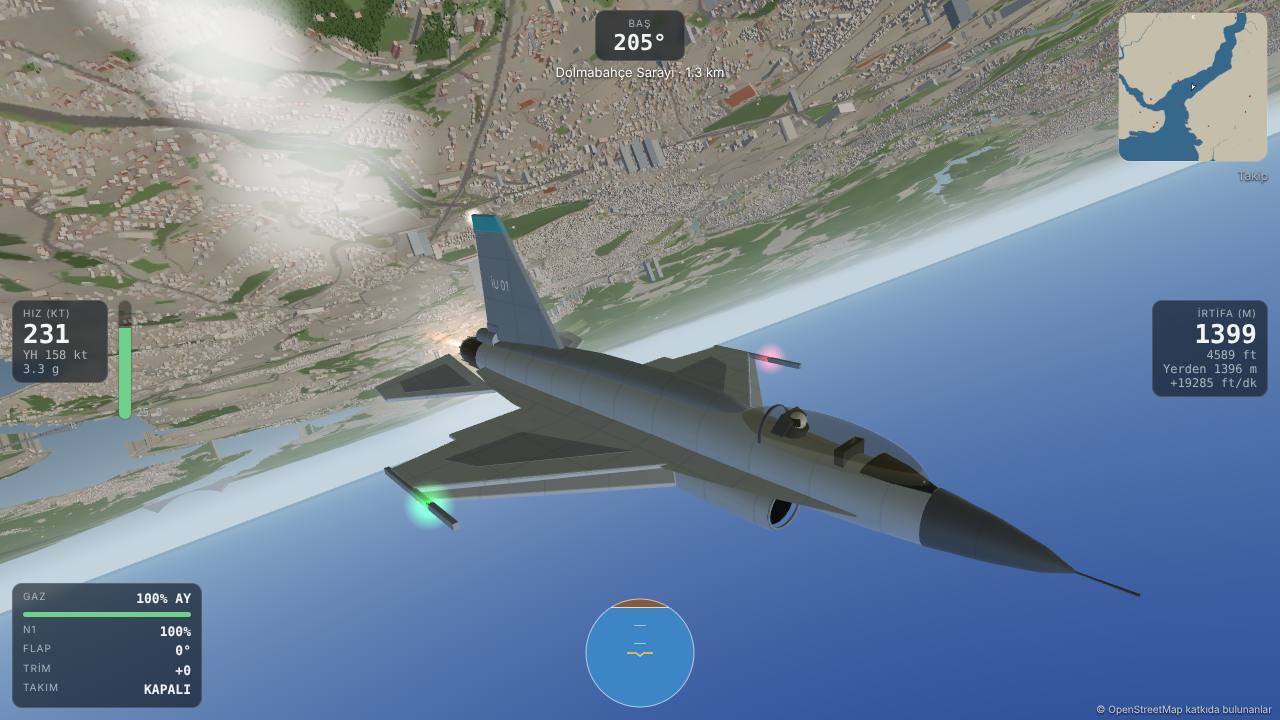
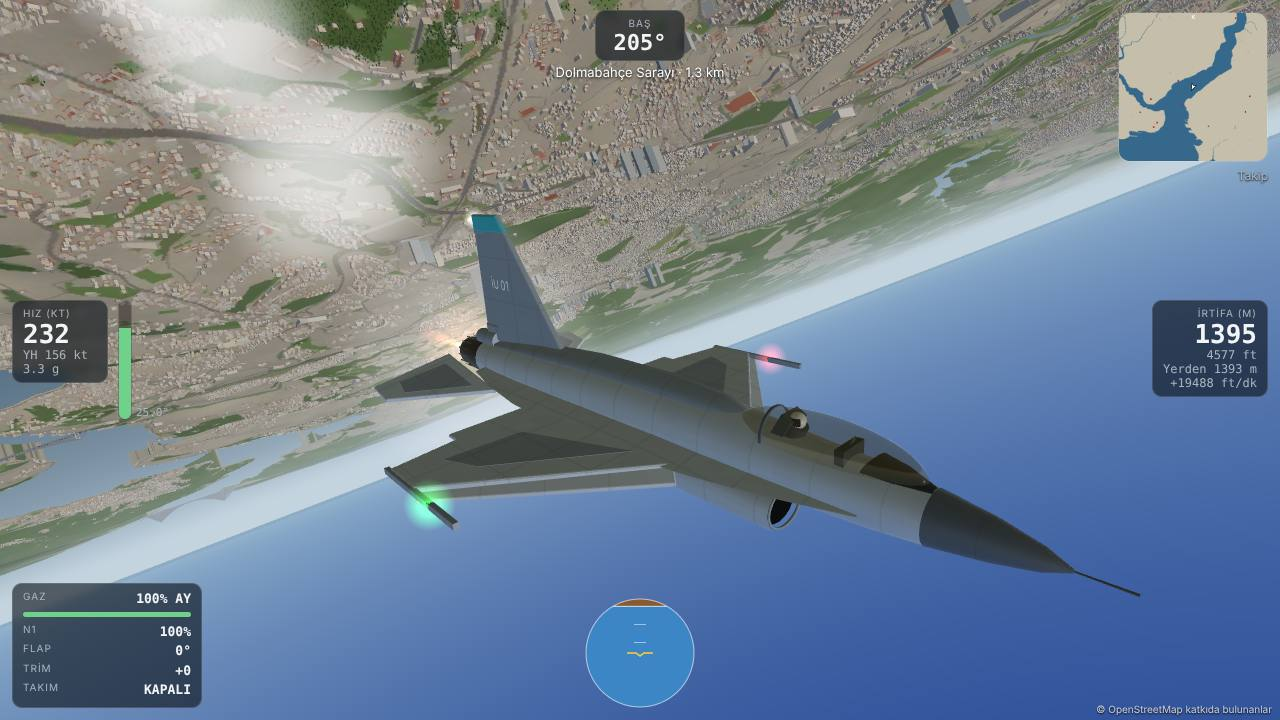
Uçuş: kolay kumanda (analog solda, gaz sağda, flap/takım/fren/trim kendiliğinden, Cessna ve L-39'a uçuş bilgisayarı)
Claude-Session: https://claude.ai/code/session_019HWPbKRM2DXga1zKYf2HBw

diff --git a/ucak-simulatoru/www/js/main.js b/ucak-simulatoru/www/js/main.js
@@ -1,6 +1,6 @@
 // İstanbul Uçuşu - ana döngü, kamera, gösterge (HUD), menü, başlangıç noktaları, duman izi.
 import * as THREE from '../vendor/three.module.min.js';
-import { PLANES, Aircraft, advance, startTrimmed, quatToEuler, liftCurve, isa, KT, FT, trimLevel } from './fdm.js';
+import { PLANES, easyPlane, Aircraft, advance, startTrimmed, quatToEuler, liftCurve, isa, KT, FT, trimLevel } from './fdm.js';
 import { World, geo, ungeo, convergence } from './world.js';
 import { buildC172, buildJet, buildF16, setCockpit } from './models.js';
 import { Input } from './input.js';
@@ -15,7 +15,7 @@ const params = new URLSearchParams(location.search);
 // ---------- ayarlar ----------
 const SKEY = 'istanbul-ucusu-v1';
 const saved = (() => { try { return JSON.parse(localStorage.getItem(SKEY)) || {}; } catch (e) { return {}; } })();
-const settings = Object.assign({ plane: 'f16', start: 'pist', wind: 'yok', quality: isTouch ? 'orta' : 'yuksek', autoRudder: true, level: true, tilt: false, invert: false, smoke: false }, saved);
+const settings = Object.assign({ plane: 'f16', start: 'pist', wind: 'yok', quality: isTouch ? 'orta' : 'yuksek', autoRudder: true, level: true, tilt: false, invert: false, smoke: false, easy: true }, saved);
 if (!saved.v2) { settings.plane = 'f16'; settings.v2 = true; } // yeni sürümde vurgulanan uçak bir kez seçili gelir
 const saveSettings = () => { try { localStorage.setItem(SKEY, JSON.stringify(settings)); } catch (e) { /* özel pencere */ } };
 saveSettings();
@@ -91,7 +91,7 @@ function bindMenu() {
         if (name === 'quality') location.reload(); };
     });
   };
-  ['plane', 'start', 'wind', 'quality', 'autoRudder', 'level', 'tilt', 'invert'].forEach(sel);
+  ['plane', 'start', 'wind', 'quality', 'autoRudder', 'level', 'tilt', 'invert', 'easy'].forEach(sel);
   $('#bStart').onclick = async () => {
     if (settings.tilt && window.DeviceOrientationEvent && DeviceOrientationEvent.requestPermission) {
       try { await DeviceOrientationEvent.requestPermission(); } catch (e) { /* izin yok */ }
@@ -126,7 +126,8 @@ async function startFlight() {
   input.invert = settings.invert;
   input.setTilt(settings.tilt && isTouch);
   if (model) scene.remove(model.root);
-  ac = new Aircraft(PLANES[settings.plane]);
+  ac = new Aircraft(settings.easy ? easyPlane(PLANES[settings.plane]) : PLANES[settings.plane]);
+  document.body.classList.toggle('easy', !!settings.easy);
   model = settings.plane === 'jet' ? buildJet() : settings.plane === 'f16' ? buildF16(world.envMap()) : buildC172();
   scene.add(model.root);
   $('#gearRow').style.display = $('#vGear').style.display = ac.P.retract ? '' : 'none';
@@ -387,13 +388,14 @@ function drawHUD(dt) {
     hud.aoa.style.height = clamp((o.alpha * R2D + 5) / (as * R2D + 10) * 100, 0, 100) + '%';
     hud.aoa.classList.toggle('red', warn);
     setT(hud.g, ac.nz.toFixed(1) + ' g');
-    if (isTouch) setT(hud.ti, 'GAZ ' + Math.round(ac.ctl.throttle * 100) + '%' + (ac.ab > 0.1 ? ' ARD YAKICI' : '') + '  ' + (P.kind === 'prop' ? Math.round(ac.rpm / 10) * 10 + ' rpm' : 'N1 ' + Math.round(ac.spool * 100) + '%') + '\nFLAP ' + P.flapDetents[flapIdx] + '°' + (P.fbw ? '' : '  TRİM ' + Math.round(ac.ctl.trim * 100)) + (P.retract ? '  TAKIM ' + (ac.gearPos > 0.98 ? 'AÇIK' : ac.gearPos < 0.02 ? 'KAPALI' : '...') : '') + (ac.ctl.brake ? '  FREN' : ''));
+    if (isTouch && settings.easy) setT(hud.ti, '');
+    else if (isTouch) setT(hud.ti, 'GAZ ' + Math.round(ac.ctl.throttle * 100) + '%' + (ac.ab > 0.1 ? ' ARD YAKICI' : '') + '  ' + (P.kind === 'prop' ? Math.round(ac.rpm / 10) * 10 + ' rpm' : 'N1 ' + Math.round(ac.spool * 100) + '%') + '\nFLAP ' + P.flapDetents[flapIdx] + '°' + (P.fbw ? '' : '  TRİM ' + Math.round(ac.ctl.trim * 100)) + (P.retract ? '  TAKIM ' + (ac.gearPos > 0.98 ? 'AÇIK' : ac.gearPos < 0.02 ? 'KAPALI' : '...') : '') + (ac.ctl.brake ? '  FREN' : ''));
     const nl = world.nearestLandmark(ac.pos[1], ac.pos[0]);
     setT(hud.near, nl ? nl.name + ' · ' + (nl.dist < 1000 ? Math.round(nl.dist) + ' m' : (nl.dist / 1000).toFixed(1) + ' km') : '');
     let m = '';
     if (o.V > P.Vne * 0.95 && airborne) m = 'AZAMİ HIZ';
     else if (ac.nz > P.nMax) m = 'YÜK SINIRI AŞILDI';
-    else if (STARTS[settings.start].rw && !STARTS[settings.start].approach && ac.onGround && ac.ctl.throttle < 0.05 && simTime < 8) m = P.fbw ? 'Tam gaz verin (ard yakıcı), 150 kt civarında levyeyi çekin' : 'Gazı açın (Shift / +), 55 kt civarında levyeyi çekin';
+    else if (STARTS[settings.start].rw && !STARTS[settings.start].approach && ac.onGround && ac.ctl.throttle < 0.05 && simTime < 8) m = isTouch && settings.easy ? 'Gazı sağdan sonuna kadar açın, hız artınca analogu yukarı itin' : P.id === 'f16' ? 'Tam gaz verin (ard yakıcı), 150 kt civarında levyeyi çekin' : 'Gazı açın (Shift / +), 55 kt civarında levyeyi çekin';
     setT(hud.msg, m);
     drawMini(e.psi);
     if (mapOpen) drawBigMap();
@@ -491,6 +493,23 @@ function puff(p) {
   m.position.copy(p); scene.add(m); puffs.push({ m, t: 0 });
 }
 
+// ---------- kolay kumanda: flap, iniş takımı, fren ve trim kendiliğinden ----------
+// flap hıza göre (yavaşta açık), takım kalkıştan sonra toplanır, alçak ve yavaş inerken açılır; yerde gaz kapalıysa fren.
+const EASY_REF = { c172: 55, jet: 110, f16: 140 }; // kt, yaklaşma hızının altı
+function autoSystems(ac) {
+  const P = ac.P, n = P.flapDetents.length - 1, v = ac.out.V / KT / (EASY_REF[P.id] || 100);
+  if (ac.onGround) flapIdx = Math.min(1, n);
+  else flapIdx = v < 1.2 ? n : v < 1.45 ? Math.max(1, n - 1) : v < 1.75 ? Math.min(1, n) : 0;
+  ac.ctl.trim = 0;
+  ac.ctl.brake = ac.onGround && input.throttle < 0.04 ? 1 : 0;
+  if (P.retract) {
+    const agl = ac.out.agl || 0, vs = -ac.vel[2];
+    if (ac.onGround) ac.ctl.gearDown = true;
+    else if (ac.ctl.gearDown && agl > 25 && vs > 0.5) ac.ctl.gearDown = false;
+    else if (!ac.ctl.gearDown && agl < 120 && v < 1.9 && vs < 0) ac.ctl.gearDown = true;
+  }
+}
+
 // ---------- döngü ----------
 let last = performance.now();
 let fpsT = 0, fpsN = 0, fps = 60;
@@ -520,6 +539,7 @@ function frame(now) {
       ac.ctl.yaw = yaw;
       ac.ctl.throttle = input.throttle;
       ac.ctl.brake = input.brake;
+      if (settings.easy) autoSystems(ac);
       ac.ctl.flaps = P.flapDetents[flapIdx] / P.flapDetents[P.flapDetents.length - 1];
       world.acAlt = ac.alt;
       updateWind(simTime, ac.out.agl || 100);

diff --git a/ucak-simulatoru/www/index.html b/ucak-simulatoru/www/index.html
@@ -106,32 +106,33 @@ kbd { font: 600 12px ui-monospace, monospace; background: rgba(255,255,255,.1); 
 #touch { position: fixed; inset: 0; pointer-events: none; display: none; }
 body.touch #hud:not(.hide) ~ #touch { display: block; }
 #touch > * { pointer-events: auto; position: absolute; }
-#stick { right: calc(18px + var(--sar)); bottom: calc(18px + var(--sab)); width: 150px; height: 150px; border-radius: 50%; background: rgba(12,18,26,.38); border: 2px solid rgba(255,255,255,.25); touch-action: none; }
+#stick { left: calc(18px + var(--sal)); bottom: calc(18px + var(--sab)); width: 150px; height: 150px; border-radius: 50%; background: rgba(12,18,26,.38); border: 2px solid rgba(255,255,255,.25); touch-action: none; }
 #stick::before, #stick::after { content: ''; position: absolute; background: rgba(255,255,255,.18); }
 #stick::before { left: 50%; top: 12px; bottom: 12px; width: 1px; }
 #stick::after { top: 50%; left: 12px; right: 12px; height: 1px; }
 #knob { position: absolute; left: 50%; top: 50%; width: 62px; height: 62px; margin: -31px; border-radius: 50%; background: rgba(255,255,255,.75); box-shadow: 0 2px 8px rgba(0,0,0,.4); }
-#thr { left: calc(14px + var(--sal)); bottom: calc(18px + var(--sab)); width: 58px; height: 190px; border-radius: 14px; background: rgba(12,18,26,.45); border: 2px solid rgba(255,255,255,.25); touch-action: none; overflow: hidden; }
+#thr { right: calc(18px + var(--sar)); bottom: calc(18px + var(--sab)); width: 58px; height: 190px; border-radius: 14px; background: rgba(12,18,26,.45); border: 2px solid rgba(255,255,255,.25); touch-action: none; overflow: hidden; }
 #thrFill { position: absolute; left: 0; right: 0; bottom: 0; background: rgba(111,209,138,.35); }
 #thrKnob { position: absolute; left: 4px; right: 4px; height: 28px; border-radius: 8px; background: rgba(255,255,255,.85); }
 #thr span { position: absolute; top: 6px; left: 0; right: 0; text-align: center; font-size: 10px; letter-spacing: 1px; color: var(--dim); }
 .tb { min-width: 52px; min-height: 44px; padding: 0 10px; border-radius: 10px; border: 1px solid rgba(255,255,255,.25); background: rgba(12,18,26,.55); font-size: 12px; font-weight: 700; letter-spacing: .5px; touch-action: none; }
 .tb.on { background: rgba(255,207,51,.4); }
-#bFlapD { left: calc(84px + var(--sal)); bottom: calc(18px + var(--sab)); }
-#bFlapU { left: calc(84px + var(--sal)); bottom: calc(68px + var(--sab)); }
-#bBrake { left: calc(84px + var(--sal)); bottom: calc(118px + var(--sab)); }
-#bGear { left: calc(84px + var(--sal)); bottom: calc(168px + var(--sab)); }
+#bFlapD { right: calc(88px + var(--sar)); bottom: calc(18px + var(--sab)); }
+#bFlapU { right: calc(88px + var(--sar)); bottom: calc(68px + var(--sab)); }
+#bBrake { right: calc(88px + var(--sar)); bottom: calc(118px + var(--sab)); }
+#bGear { right: calc(88px + var(--sar)); bottom: calc(168px + var(--sab)); }
 #bSmoke { left: calc(232px + var(--sal)); top: calc(12px + var(--sat)); }
 #bMap { display: none; }
 body.touch #mini { pointer-events: auto; cursor: pointer; }
 .tb.two { line-height: 1.1; padding: 4px 10px; font-size: 11px; }
-#bTrimU { right: calc(96px + var(--sar)); bottom: calc(178px + var(--sab)); }
-#bTrimD { right: calc(18px + var(--sar)); bottom: calc(178px + var(--sab)); }
+#bTrimU { left: calc(96px + var(--sal)); bottom: calc(178px + var(--sab)); }
+#bTrimD { left: calc(18px + var(--sal)); bottom: calc(178px + var(--sab)); }
 #bPause { left: calc(12px + var(--sal)); top: calc(12px + var(--sat)); }
 #bReset { left: calc(72px + var(--sal)); top: calc(12px + var(--sat)); }
 #bCam { left: calc(152px + var(--sal)); top: calc(12px + var(--sat)); }
 #touchInfo { white-space: pre; right: calc(18px + var(--sar)); bottom: calc(228px + var(--sab)); font: 11px ui-monospace, Menlo, monospace; color: #fff; text-shadow: 0 1px 2px #000; pointer-events: none; text-align: right; }
 body.touch #pInfo { display: none; }
+body.easy #bFlapD, body.easy #bFlapU, body.easy #bBrake, body.easy #bGear, body.easy #bTrimU, body.easy #bTrimD { display: none; }
 body.touch #pSpd { top: calc(64px + var(--sat)); left: calc(12px + var(--sal)); }
 body.touch #aoa { top: calc(64px + var(--sat)); height: 80px; }
 body.touch #vAoa { top: calc(148px + var(--sat)); }
@@ -188,6 +189,9 @@ body.portrait #rot { display: flex; }
         <button class="opt" data-set="quality" data-val="yuksek">Grafik yüksek</button>
         <button class="opt" data-set="quality" data-val="orta">Orta</button>
         <button class="opt" data-set="quality" data-val="dusuk">Düşük</button>
+      </div><div class="opts" style="margin-top:8px">
+        <button class="opt" data-set="easy" data-val="true">Kolay kumanda<small>Yalnız analog ve gaz. Flap, iniş takımı, fren ve trim kendiliğinden; uçak stall olmaz</small></button>
+        <button class="opt" data-set="easy" data-val="false">Gerçekçi<small>Flap, takım, fren ve trim elle</small></button>
       </div><div class="opts" style="margin-top:8px">
         <button class="opt" data-set="autoRudder" data-val="true">Otomatik dümen açık<small>Dönüşte yan kaymayı siler; yerde levye burun tekerini çevirir</small></button>
         <button class="opt" data-set="autoRudder" data-val="false">Kapalı</button>

diff --git a/ucak-simulatoru/www/js/fdm.js b/ucak-simulatoru/www/js/fdm.js
@@ -165,7 +165,7 @@ export const PLANES = {
     Tmax: 76000, Tab: 125000, spoolUp: 0.55, spoolDown: 0.8, idleN: 0.07, gearTime: 3,
     Vne: 850 * KT, nMax: 9, nMin: -3,
     // fly-by-wire sınırları
-    fbw: { nMax: 9, nMin: -3, nMaxGear: 4, aMax: 25 * D2R, aMaxGear: 15 * D2R, aMin: -10 * D2R, pMax: 240 * D2R, betaMax: 12 * D2R, yawAug: 0.25, couple: 0.4 },
+    fbw: { nMax: 9, nMin: -3, nMaxGear: 4, aMax: 25 * D2R, aMaxGear: 15 * D2R, aMin: -10 * D2R, pMax: 240 * D2R, betaMax: 12 * D2R, yawAug: 0.25, couple: 0.4, turnComp: true },
     gear: [
       { name: 'burun', p: [3.9, 0, 1.78], k: 120000, c: 14000, steer: true, brake: false },
       { name: 'sol', p: [-0.45, -1.18, 1.78], k: 300000, c: 32000, steer: false, brake: true },
@@ -289,7 +289,13 @@ export class Aircraft {
       return { deCmd: pitch >= 0 ? pitch * P.deUp * 0.8 : -pitch * P.deDown * 0.5, daCmd: clamp(c.roll, -1, 1) * P.daMax * 0.5, drCmd: -clamp(c.yaw, -1, 1) * P.drMax * 0.5 };
     }
     // yerçekimi telafisi: dünya aşağı yönünün gövde z bileşeni (= cosθ cosφ)
-    const n0 = clamp(m[8], -1, 1);
+    let n0 = clamp(m[8], -1, 1);
+    // dönüş telafisi: levye ortadayken yatışta da irtifa korunur (n = cosθ/cosφ); 60°'den sonra ters uçuşa doğru yumuşakça eski davranışa döner
+    if (F.turnComp) {
+      const cth = Math.sqrt(Math.max(0, 1 - m[6] * m[6])), cph = cth > 0.05 ? m[8] / cth : 1;
+      if (cph > 0.5) n0 = clamp(cth / cph, -1, 2);
+      else if (cph > 0) n0 = clamp(cth / 0.5, 0, 2) * (cph / 0.5) + m[8] * (1 - cph / 0.5);
+    }
     const u = clamp(c.pitch + c.trim, -1, 1);
     const nHi = gearDn ? F.nMaxGear : F.nMax;
     const nCmd = u >= 0 ? n0 + u * (nHi - n0) : n0 + u * (n0 - F.nMin);
@@ -591,6 +597,15 @@ export function advance(ac, env, frameDt, acc = { t: 0 }) {
   while (acc.t >= DT && n < 48) { ac.step(DT, env); acc.t -= DT; n++; }
   return n;
 }
+
+// Kolay kumanda: fly-by-wire'ı olmayan uçaklara da oyun için uçuş bilgisayarı takılır.
+// Levye ortadayken uçuş yolu korunur (trim gerekmez), levye ne kadar çekilirse o kadar g / yuvarlanma hızı;
+// hücum açısı tutunma kaybının altında tutulur.
+export const EASY_FBW = {
+  c172: { nMax: 3.5, nMin: -1.5, nMaxGear: 3.5, aMax: 12 * D2R, aMaxGear: 12 * D2R, aMin: -8 * D2R, pMax: 70 * D2R, betaMax: 6 * D2R, yawAug: 0.15, couple: 1, turnComp: true },
+  jet: { nMax: 5, nMin: -2.5, nMaxGear: 3, aMax: 12 * D2R, aMaxGear: 11 * D2R, aMin: -8 * D2R, pMax: 160 * D2R, betaMax: 8 * D2R, yawAug: 0.2, couple: 0.6, turnComp: true },
+};
+export function easyPlane(P) { return P.fbw || !EASY_FBW[P.id] ? P : Object.assign({}, P, { fbw: EASY_FBW[P.id], easy: true }); }
 
 // Düz uçuş dengesi (trim): verilen hız, irtifa ve flapta yatay uçuş için α, elevatör trimi ve gaz.
 // opts.noThrust: gaz yerine uçuş yolu açısını çözer (gücü kapalı süzülme). Döndürür {alpha, trim, throttle, gamma, ok}

diff --git a/ucak-simulatoru/www/js/input.js b/ucak-simulatoru/www/js/input.js
@@ -102,7 +102,9 @@ export class Input {
       const r = R(), cx = r.left + r.width / 2, cy = r.top + r.height / 2, rad = r.width / 2;
       let x = (t.clientX - cx) / rad, y = (t.clientY - cy) / rad;
       const l = Math.hypot(x, y); if (l > 1) { x /= l; y /= l; }
-      this.stick = { x: Math.sign(x) * Math.pow(Math.abs(x), 1.5), y: Math.sign(y) * Math.pow(Math.abs(y), 1.5) };
+      // doğrusal: ne kadar itilirse o kadar (ortada küçük ölü bölge)
+      const dz = (v) => Math.sign(v) * Math.max(0, Math.abs(v) - 0.05) / 0.95;
+      this.stick = { x: dz(x), y: dz(y) };
       knob.style.transform = `translate(${x * rad * 0.62}px, ${y * rad * 0.62}px)`;
     };
     stickEl.addEventListener('pointerdown', (e) => { stickId = e.pointerId; try { stickEl.setPointerCapture(e.pointerId); } catch (_) { /* yapay olay */ } setStick(e); e.preventDefault(); });

diff --git a/ucak-simulatoru/README.md b/ucak-simulatoru/README.md
@@ -206,3 +206,16 @@ Arazi düğümü başına ~2 200 üçgen, bina düğümü başına bir çizim ç
 1. "Gerçek bir jet, çok kaliteli, akrobasi yapabilsin, gerçek kadar zor olmasın": F-16 sınıfı savaş uçağı eklendi (yukarıda 13-16. kararlar), menüde ilk sırada "YENİ" etiketiyle ve bir kez seçili gelir. Takla, tonoz, Immelmann, ters takla, ters uçuş, bıçak sırtı benzeri uçuş yapılabilir; tutunma kaybı ve vril olmaz.
 2. "Bütün harita 3 boyutlu olsun, optimizasyonu da yap": İstanbul'daki bütün binalar 3B (395 645), üç ayrıntı düzeyi, işçide birleşik örgü, çerçeve dışı ayıklama, ağaçlar örneklenmiş çizim, zemin ayrıntısı gölgelendiricide.
 3. "Bütün Türkiye'yi yap": bütün Türkiye arazisi (dörtlü ağaç, akışlı yükleme, kayan orijin), denizler ve göller, iklime göre zemin, 17 şehirde gerçek binalar, simge yapılar, on havalimanı, Türkiye haritası; menüde yeni başlangıç noktaları.
+
+## 22 Kasım (akşam): kolay kumanda
+
+Eymen: "analog solda, gaz sağda; trim, flap olmasın; yukarıysa yukarı, ne kadar çekersen o kadar."
+
+- **Yerleşim (dokunmatik):** analog sol altta, gaz kolu sağ altta. Ekranda yalnız DUR, BAŞTAN, KAMERA, DUMAN; harita küçük haritaya dokununca.
+- **Kolay kumanda** (Ayarlar, varsayılan açık):
+  - Analog doğrusal: ne kadar itilirse o kadar yönelir (ortada %5 ölü bölge). Yukarı = burun yukarı, sağ = sağa yatış.
+  - Cessna ve L-39'a da uçuş bilgisayarı takılır (`EASY_FBW`, `easyPlane()` in `fdm.js`): levye g ve yuvarlanma hızı ister, ortadayken uçuş yolu korunur, trim gerekmez, hücum açısı tutunma kaybının altında tutulur.
+  - Dönüş telafisi (`turnComp`, F-16 dahil): levye ortadayken yatışta da irtifa korunur (n = cosθ/cosφ, 60°'den sonra ters uçuşa doğru eski davranışa yumuşak geçiş).
+  - Flap hıza göre, iniş takımı kalkışta toplanır / alçak ve yavaş inerken açılır, yerde gaz kapalıyken fren (`autoSystems()` in `main.js`).
+- **Gerçekçi** seçilirse eski düğmeler (flap, takım, fren, trim) geri gelir.
+- Testler: `fizik-test` hepsi geçti; tarayıcıda kolay modda Cessna kalkışı 334 m, jet taklası 362°, tonoz 262°/sn; iPhone'da analog solda, gaz sağda, gizli düğmeler yok, analog yukarı → burun yukarı (37°/sn).
